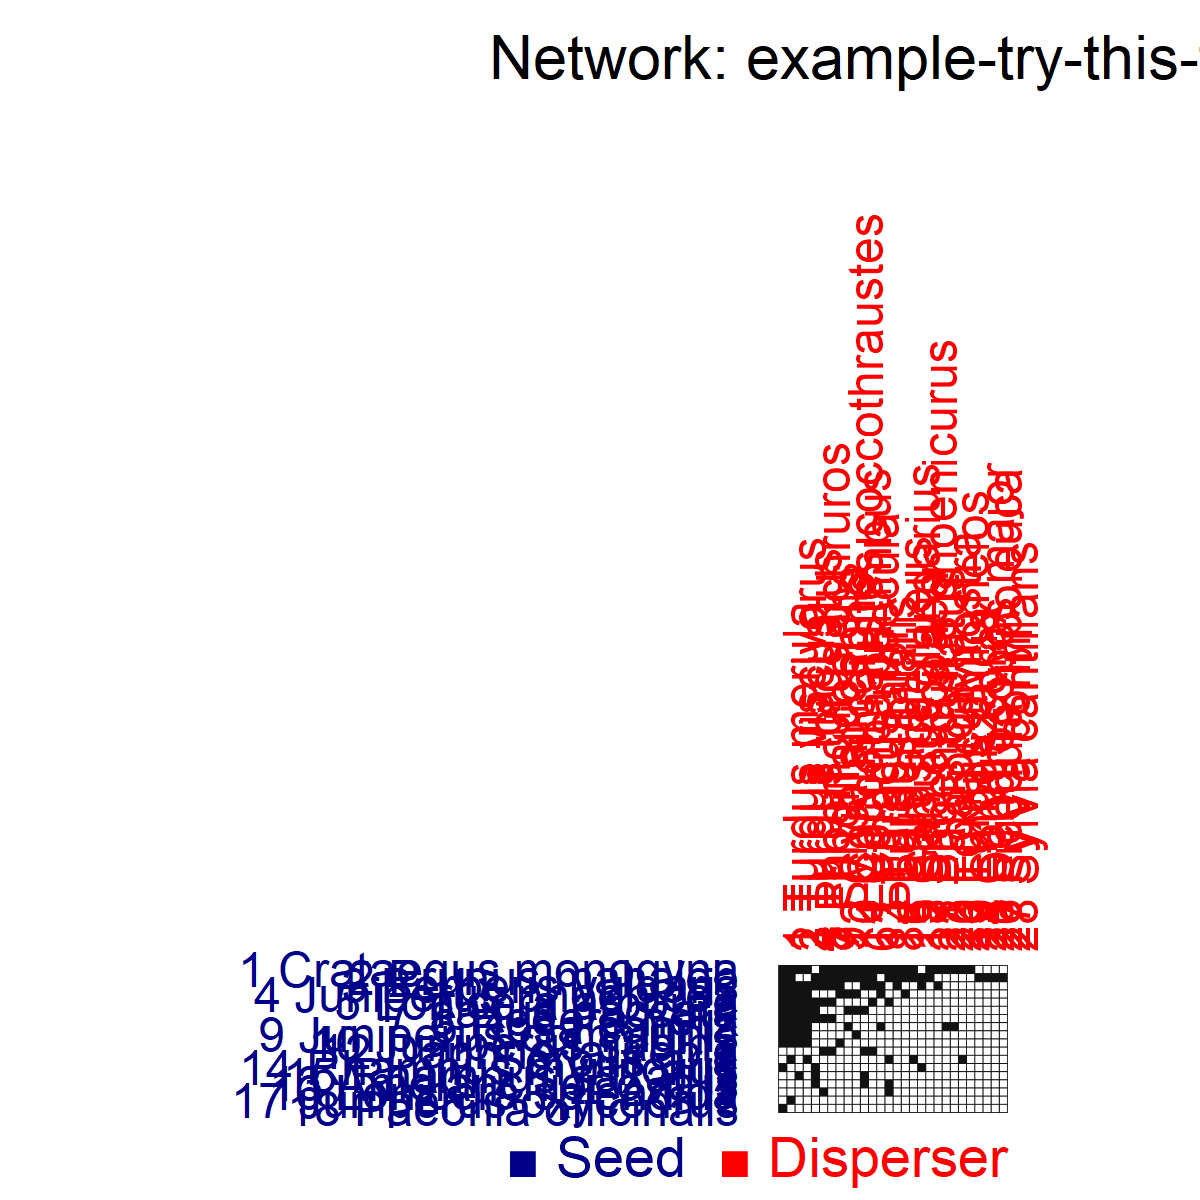
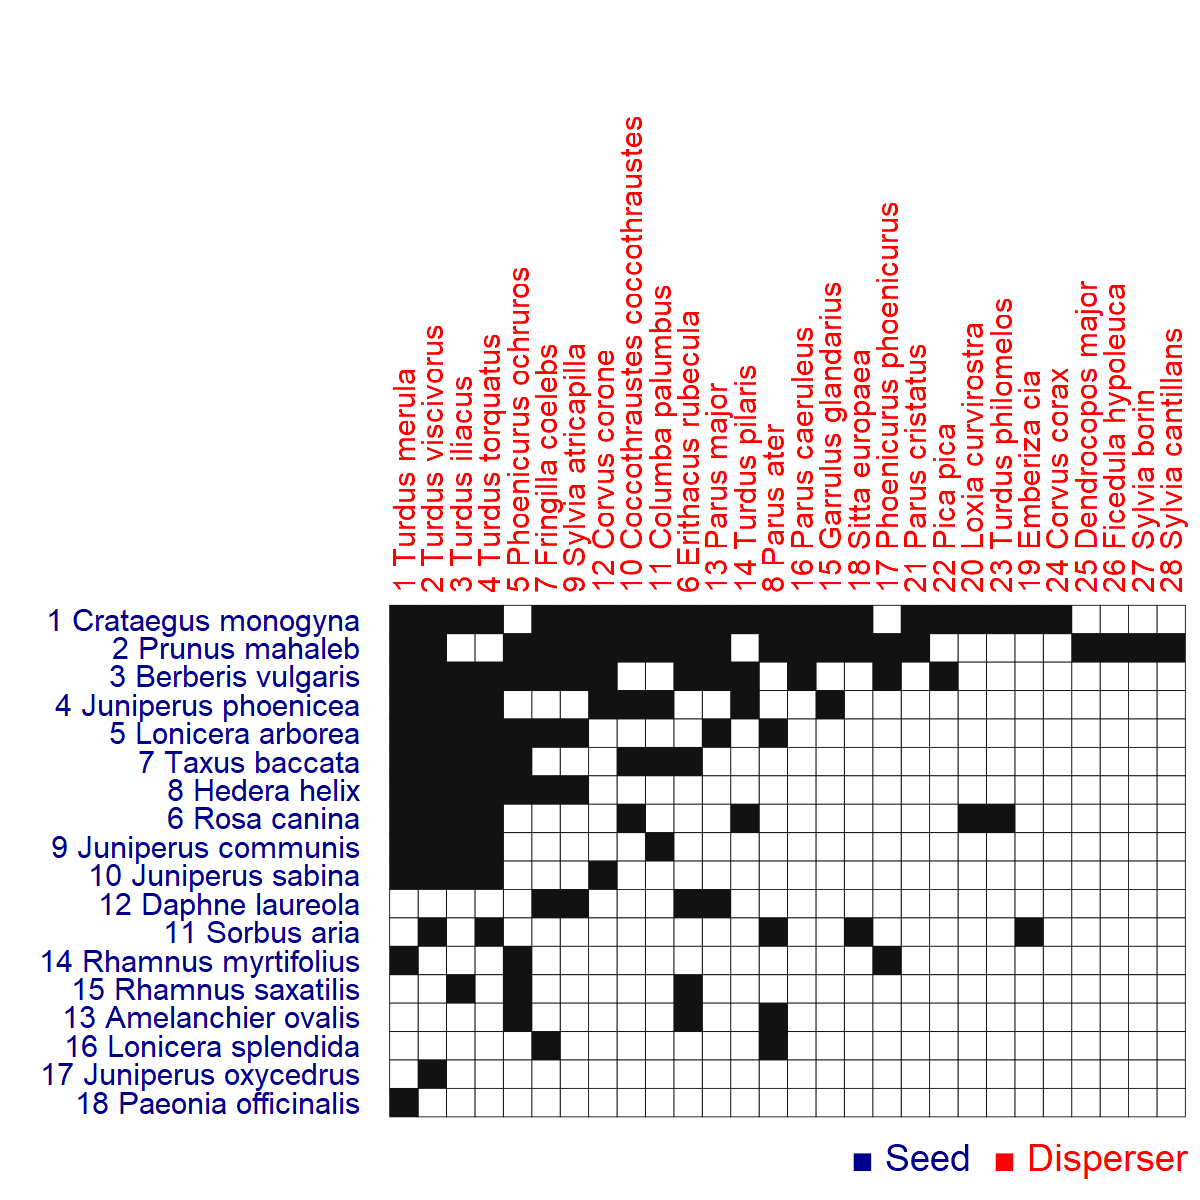
Matrix plot labels size

Changed region(s): [[0.0308, 0.0925, 1.0, 0.9867], [0.6167, 0.0308, 1.0, 0.0925], [0.4008, 0.0308, 0.5858, 0.0617]]

diff --git a/www/reports/matrix_M_SD_034_report.html b/www/reports/matrix_M_SD_034_report.html
@@ -1,0 +1,1 @@
+<!-- Online HTML, CSS and JavaScript editor to run code online.--><!DOCTYPE html><html lang="en"><head>    <meta charset="UTF-8" />    <meta name="viewport" content="width=device-width, initial-scale=1.0" />        <title>M_SD_034 matrix Network report</title>    <link rel="stylesheet" href="../css/reportstyle.css?refreshcss=1" type="text/css" >    <!-- <script type = 'text/javascript' src = '../scripts/reports.js'></script> --></head><body><div style='max-width: 800px; margin-left:20px' >       <div>       <img src="../images/rect-BipartGraph.png" height = "20px",style =        "position: relative; margin:-15px 0px; display:left-align;">       <div align="right" class='no-print'><a href="Javascript:window.print();"><img src="../images/logos-flexline/printer.png" width="15px"></a></div>          </div>   <div valign="top">      <h4 style="text-align:center">     Network:&nbsp; M_SD_034    </h4>    </div>    <div align="center" id="svgPlot"><img src="M_SD_034_MATRIX.png" width=810 ></div>    <span class='GuildTitle' style='color:#00008B'>Disperser</span >    <br>    <div class="GuildNamesList"><span style='color:#00008B'>1 Alethe poliocephala, 2 Andropadus ansorgei, 3 Andropadus curvirostris, 4 Andropadus gracilirostris, 5 Andropadus latirostris, 6 Andropadus masukuensis, 7 Andropadus virens, 8 Anthoscopus caroli, 9 Apalis rufogularis, 10 Baeopogon indicator, 11 Bathmocercus rufus, 12 Bleda syndactylus, 13 Buccanodon duchaillui, 14 Campephaga flava, 15 Centropus monachus, 16 Ceratogymna subcylindrica, 17 Cercopithecus ascanius, 18 Cercopithecus mitis, 19 Chalcomitra amethystina, 20 Chalcomitra senegalensis, 21 Chlorocichla flavicollis, 22 Chlorocichla laetissima, 23 Cinnyricinclus leucogaster, 24 Colius striatus, 25 Colobus guereza, 26 Columba larvata, 27 Cossypha heuglini, 28 Cossypha niveicapilla, 29 Cossypha polioptera, 30 Cuculus clamosus, 31 Cyanomitra olivacea, 32 Cyanomitra verticalis, 33 Dicrurus adsimilis, 34 Elminia longicauda, 35 Eremomela turneri, 36 Estrilda nonnula, 37 Gymnobucco bonapartei, 38 Heliosciurus rufobrachium, 39 Hippolais pallida, 40 Hylia prasina, 41 Laniarius luehderi, 42 Lybius bidentatus, 43 Malimbus rubricollis, 44 Melaniparus albiventris, 45 Melaniparus funereus, 46 Musophaga rossae, 47 Nigrita canicapillus, 48 Nigrita fusconotus, 49 Oriolus auratus, 50 Oriolus brachyrhynchus, 51 Papio anubis, 52 Phoenicurus phoenicurus, 53 Phyllastrephus cabanisi, 54 Phyllastrephus hypochloris, 55 Phylloscopus budongoensis, 56 Phylloscopus sibilatrix, 57 Phylloscopus trochilus, 58 Platysteira castanea, 59 Platysteira cyanea, 60 Ploceus baglafecht, 61 Ploceus bicolor, 62 Ploceus insignis, 63 Ploceus melanocephalus, 64 Ploceus nigerrimus, 65 Ploceus nigricollis, 66 Ploceus ocularis, 67 Pogoniulus bilineatus, 68 Prinia bairdii, 69 Prodotiscus insignis, 70 Pycnonotus barbatus, 71 Schistolais leucopogon, 72 Serinus citrinelloides, 73 Serinus dorsostriatus, 74 Serinus mozambicus, 75 Spermophaga ruficapilla, 76 Sylvia atricapilla, 77 Sylvia borin, 78 Sylvia communis, 79 Terpsiphone viridis, 80 Tockus alboterminatus, 81 Trachyphonus purpuratus, 82 Treron calvus, 83 Tricholaema hirsuta, 84 Turdoides sharpei, 85 Turdus olivaceus, 86 Turdus pelios, 87 Turtur tympanistria, 88Zosterops senegalensis</span></div>    <br>        <span class='GuildTitle' style='color:#FF0000'>Seed</span >    <br>    <div class="GuildNamesList"><span style='color:#FF0000'>1 Allophylus abyssinicus, 2 Antiaris toxicaria, 3 Blighia unijugata, 4 Bridelia micrantha, 5 Carissa edulis, 6 Casearia battiscombei, 7 Cissus oliveri, 8 Clerodendrum capitatum, 9 Coffea eugenioides, 10 Culcasia falcifolia, 11 Cyphostemma cyphopetalum, 12 Dracaena fragrans, 13 Ficus exasperata, 14 Ficus sur, 15 Harungana madagascariensis, 16 Jasminum fluminense, 17 Lantana camara, 18 Maesa lanceolata, 19 Manilkara butugi, 20 Morus mesozygia, 21 Peponium vogelii, 22 Piper guineense, 23 Pittosporum viridiflorum, 24 Polyscias fulva, 25 Prunus africana, 26 Psychotria peduncularis, 27 Rhamnus prinoides, 28 Rubus niveus, 29 Solanum mauritianum, 30 Toddalia asiatica, 31 Trilepisium madagascariense, 32 Unidentified sp1 M_SD_034, 33Unidentified sp2 M_SD_034</span></div>    <br><br>    <div class="Citation"><br>Matthias Schleuning, Nico Bluethgen, Martina Flarchinger, Julius Braun, H. Martin Schaefer, Katrin Bahning-Gaese, (2011). Specialization and interaction strength in a tropical plant-frugivore network differ among forest strata. Ecology, 92(1): 26-36. &nbsp; Kakamega Forest, Kenya</div></div></body></html>

diff --git a/www/reports/bipartite_RA_HP_042_report.html b/www/reports/bipartite_RA_HP_042_report.html
@@ -1,0 +1,1 @@
+<!-- Online HTML, CSS and JavaScript editor to run code online.--><!DOCTYPE html><html lang="en"><head>    <meta charset="UTF-8" />    <meta name="viewport" content="width=device-width, initial-scale=1.0" />        <title>RA_HP_042 bipartite Network report</title>    <link rel="stylesheet" href="../css/reportstyle.css?refreshcss=1" type="text/css" >    <!-- <script type = 'text/javascript' src = '../scripts/reports.js'></script> --></head><body><div style='max-width: 800px; margin-left:20px' >       <div>       <img src="../images/rect-BipartGraph.png" height = "20px",style =        "position: relative; margin:-15px 0px; display:left-align;">       <div align="right" class='no-print'><a href="Javascript:window.print();"><img src="../images/logos-flexline/printer.png" width="15px"></a></div>          </div>   <div valign="top">      <h4 style="text-align:center">     Network:&nbsp; RA_HP_042    </h4>    </div>    <div align="center" id="svgPlot"><img src="RA_HP_042_BIPARTITE.png" width=800 ></div>    <span class='GuildTitle' style='color:#4169E1'>Host</span >    <br>    <div class="GuildNamesList"><span style='color:#4169E1'>1 Amalaraeus penicilliger, 2 Amphipsylla anceps, 3 Amphipsylla dumalis, 4 Amphipsylla primaris, 5 Amphipsylla rossica, 6 Amphipsylla schelkovnikovi, 7 Callopsylla caspia, 8 Ceratophyllus sciurorum, 9 Citellophilus ullus, 10 Ctenophthalmus arvalis, 11 Ctenophthalmus assimilis, 12 Ctenophthalmus dilatatus, 13 Frontopsylla elata, 14 Frontopsylla elatoides, 15 Frontopsylla ornata, 16 Hystrichopsylla talpae, 17 Leptopsylla nana, 18 Leptopsylla sicistae, 19 Megabothris rectangulatus, 20 Mesopsylla eucta, 21 Mesopsylla hebes, 22 Mesopsylla lenis, 23 Neopsylla democratica, 24 Neopsylla mana, 25 Neopsylla setosa, 26 Nosopsyllus consimilis, 27 Oropsylla ilovaiskii, 28 Oropsylla silantiewi, 29 Paraneopsylla ioffi, 30 Pectinoctenus lauta, 31 Pectinoctenus nemorosa, 32Rhadinopsylla ioffi</span></div>    <br>        <span class='GuildTitle' style='color:#F08080'>Parasite</span >    <br>    <div class="GuildNamesList"><span style='color:#F08080'>1 Allactaga elater, 2 Allactaga major, 3 Allocricetulus eversmanni, 4 Alticola argentatus, 5 Alticola strelzowi, 6 Apodemus agrarius, 7 Apodemus uralensis, 8 Arvicola terrestris, 9 Clethrionomys rufocanus, 10 Cricetulus migratorius, 11 Cricetus cricetus, 12 Dryomys nitedula, 13 Ellobius talpinus, 14 Marmota baibacina, 15 Microtus arvalis, 16 Microtus gregalis, 17 Microtus oeconomus, 18 Myospalax myospalax, 19 Sicista subtilis, 20 Sicista tianshanica, 21Spermophilus erythrogenys</span></div>    <br><br>    <div class="Citation"><br>Hadfield JD, Krasnov BR, Poulin R, Shinichi N (2013) A tale of two phylogenies: comparative analyses of ecological interactions. The American Naturalist 183(2): 174-187 &nbsp; Tarbagatai</div></div></body></html>

diff --git a/www/reports/matrix_RA_HP_042_report.html b/www/reports/matrix_RA_HP_042_report.html
@@ -1,0 +1,1 @@
+<!-- Online HTML, CSS and JavaScript editor to run code online.--><!DOCTYPE html><html lang="en"><head>    <meta charset="UTF-8" />    <meta name="viewport" content="width=device-width, initial-scale=1.0" />        <title>RA_HP_042 matrix Network report</title>    <link rel="stylesheet" href="../css/reportstyle.css?refreshcss=1" type="text/css" >    <!-- <script type = 'text/javascript' src = '../scripts/reports.js'></script> --></head><body><div style='max-width: 800px; margin-left:20px' >       <div>       <img src="../images/rect-BipartGraph.png" height = "20px",style =        "position: relative; margin:-15px 0px; display:left-align;">       <div align="right" class='no-print'><a href="Javascript:window.print();"><img src="../images/logos-flexline/printer.png" width="15px"></a></div>          </div>   <div valign="top">      <h4 style="text-align:center">     Network:&nbsp; RA_HP_042    </h4>    </div>    <div align="center" id="svgPlot"><img src="RA_HP_042_MATRIX.png" width=540 ></div>    <span class='GuildTitle' style='color:#00008B'>Host</span >    <br>    <div class="GuildNamesList"><span style='color:#00008B'>1 Amalaraeus penicilliger, 2 Amphipsylla anceps, 3 Amphipsylla dumalis, 4 Amphipsylla primaris, 5 Amphipsylla rossica, 6 Amphipsylla schelkovnikovi, 7 Callopsylla caspia, 8 Ceratophyllus sciurorum, 9 Citellophilus ullus, 10 Ctenophthalmus arvalis, 11 Ctenophthalmus assimilis, 12 Ctenophthalmus dilatatus, 13 Frontopsylla elata, 14 Frontopsylla elatoides, 15 Frontopsylla ornata, 16 Hystrichopsylla talpae, 17 Leptopsylla nana, 18 Leptopsylla sicistae, 19 Megabothris rectangulatus, 20 Mesopsylla eucta, 21 Mesopsylla hebes, 22 Mesopsylla lenis, 23 Neopsylla democratica, 24 Neopsylla mana, 25 Neopsylla setosa, 26 Nosopsyllus consimilis, 27 Oropsylla ilovaiskii, 28 Oropsylla silantiewi, 29 Paraneopsylla ioffi, 30 Pectinoctenus lauta, 31 Pectinoctenus nemorosa, 32Rhadinopsylla ioffi</span></div>    <br>        <span class='GuildTitle' style='color:#FF0000'>Parasite</span >    <br>    <div class="GuildNamesList"><span style='color:#FF0000'>1 Allactaga elater, 2 Allactaga major, 3 Allocricetulus eversmanni, 4 Alticola argentatus, 5 Alticola strelzowi, 6 Apodemus agrarius, 7 Apodemus uralensis, 8 Arvicola terrestris, 9 Clethrionomys rufocanus, 10 Cricetulus migratorius, 11 Cricetus cricetus, 12 Dryomys nitedula, 13 Ellobius talpinus, 14 Marmota baibacina, 15 Microtus arvalis, 16 Microtus gregalis, 17 Microtus oeconomus, 18 Myospalax myospalax, 19 Sicista subtilis, 20 Sicista tianshanica, 21Spermophilus erythrogenys</span></div>    <br><br>    <div class="Citation"><br>Hadfield JD, Krasnov BR, Poulin R, Shinichi N (2013) A tale of two phylogenies: comparative analyses of ecological interactions. The American Naturalist 183(2): 174-187 &nbsp; Tarbagatai</div></div></body></html>

diff --git a/www/reports/bipartite_dattilo2014_report.html b/www/reports/bipartite_dattilo2014_report.html
@@ -1,0 +1,1 @@
+<!-- Online HTML, CSS and JavaScript editor to run code online.--><!DOCTYPE html><html lang="en"><head>    <meta charset="UTF-8" />    <meta name="viewport" content="width=device-width, initial-scale=1.0" />        <title>dattilo2014 bipartite Network report</title>    <link rel="stylesheet" href="../css/reportstyle.css?refreshcss=1" type="text/css" >    <!-- <script type = 'text/javascript' src = '../scripts/reports.js'></script> --></head><body><div style='max-width: 800px; margin-left:20px' >       <div>       <img src="../images/rect-BipartGraph.png" height = "20px",style =        "position: relative; margin:-15px 0px; display:left-align;">       <div align="right" class='no-print'><a href="Javascript:window.print();"><img src="../images/logos-flexline/printer.png" width="15px"></a></div>          </div>   <div valign="top">      <h4 style="text-align:center">     Network:&nbsp; dattilo2014    </h4>    </div>    <div align="center" id="svgPlot"><img src="dattilo2014_BIPARTITE.png" width=800 ></div>    <span class='GuildTitle' style='color:#4169E1'>Ant</span >    <br>    <div class="GuildNamesList"><span style='color:#4169E1'>1 Forelius pruinosus, 2 Camponotus planatus, 3 Monomorium ebeninum, 4 Cephalotes minutus, 5 Dorymyrmex bicolor, 6 Paratrechina longicornis, 7 Crematogaster obscurata, 8 Pseudomyrmex oculatus, 9 Camponotus mucronatus, 10 Camponotus novogradensis, 11 Crematogaster crinosa, 12 Crematogaster rochai, 13 Crematogaster torosa, 14 Monomorium floricola, 15 Pseudomyrmex gracilis, 16 Pseudomyrmex pallidus, 17Solepnosis geminata</span></div>    <br>        <span class='GuildTitle' style='color:#F08080'>Plant</span >    <br>    <div class="GuildNamesList"><span style='color:#F08080'>1 Opuntia sctricta, 2 Macroptilium atropupureum, 3 Mansoa hymenaea, 4 Crotolaria incana, 5 Cedrela odorata, 6 Chamaecrista chamecristoides, 7 Caesalpinia crista, 8 Canavalia rosea, 9 Petrea volubilis, 10 Prestonia mexicana, 11 Turnera ulmifolia, 12 Capparis baduca, 13 Ipomoea pres-caprae, 14 Passiflora sp, 15 Serjania sp, 16Terminalia catappa</span></div>    <br><br>    <div class="Citation"><br> </div></div></body></html>

diff --git a/www/reports/matrix_dattilo2014_report.html b/www/reports/matrix_dattilo2014_report.html
@@ -1,0 +1,1 @@
+<!-- Online HTML, CSS and JavaScript editor to run code online.--><!DOCTYPE html><html lang="en"><head>    <meta charset="UTF-8" />    <meta name="viewport" content="width=device-width, initial-scale=1.0" />        <title>dattilo2014 matrix Network report</title>    <link rel="stylesheet" href="../css/reportstyle.css?refreshcss=1" type="text/css" >    <!-- <script type = 'text/javascript' src = '../scripts/reports.js'></script> --></head><body><div style='max-width: 800px; margin-left:20px' >       <div>       <img src="../images/rect-BipartGraph.png" height = "20px",style =        "position: relative; margin:-15px 0px; display:left-align;">       <div align="right" class='no-print'><a href="Javascript:window.print();"><img src="../images/logos-flexline/printer.png" width="15px"></a></div>          </div>   <div valign="top">      <h4 style="text-align:center">     Network:&nbsp; dattilo2014    </h4>    </div>    <div align="center" id="svgPlot"><img src="dattilo2014_MATRIX.png" width=540 ></div>    <span class='GuildTitle' style='color:#00008B'>Ant</span >    <br>    <div class="GuildNamesList"><span style='color:#00008B'>1 Forelius pruinosus, 2 Camponotus planatus, 3 Monomorium ebeninum, 4 Cephalotes minutus, 5 Dorymyrmex bicolor, 6 Paratrechina longicornis, 7 Crematogaster obscurata, 8 Pseudomyrmex oculatus, 9 Camponotus mucronatus, 10 Camponotus novogradensis, 11 Crematogaster crinosa, 12 Crematogaster rochai, 13 Crematogaster torosa, 14 Monomorium floricola, 15 Pseudomyrmex gracilis, 16 Pseudomyrmex pallidus, 17Solepnosis geminata</span></div>    <br>        <span class='GuildTitle' style='color:#FF0000'>Plant</span >    <br>    <div class="GuildNamesList"><span style='color:#FF0000'>1 Opuntia sctricta, 2 Macroptilium atropupureum, 3 Mansoa hymenaea, 4 Crotolaria incana, 5 Cedrela odorata, 6 Chamaecrista chamecristoides, 7 Caesalpinia crista, 8 Canavalia rosea, 9 Petrea volubilis, 10 Prestonia mexicana, 11 Turnera ulmifolia, 12 Capparis baduca, 13 Ipomoea pres-caprae, 14 Passiflora sp, 15 Serjania sp, 16Terminalia catappa</span></div>    <br><br>    <div class="Citation"><br> </div></div></body></html>

diff --git a/www/reports/matrix_Safariland_report.html b/www/reports/matrix_Safariland_report.html
@@ -1,0 +1,1 @@
+<!-- Online HTML, CSS and JavaScript editor to run code online.--><!DOCTYPE html><html lang="en"><head>    <meta charset="UTF-8" />    <meta name="viewport" content="width=device-width, initial-scale=1.0" />        <title>Safariland matrix Network report</title>    <link rel="stylesheet" href="../css/reportstyle.css?refreshcss=1" type="text/css" >    <!-- <script type = 'text/javascript' src = '../scripts/reports.js'></script> --></head><body><div style='max-width: 800px; margin-left:20px' >       <div>       <img src="../images/rect-BipartGraph.png" height = "20px",style =        "position: relative; margin:-15px 0px; display:left-align;">       <div align="right" class='no-print'><a href="Javascript:window.print();"><img src="../images/logos-flexline/printer.png" width="15px"></a></div>          </div>   <div valign="top">      <h4 style="text-align:center">     Network:&nbsp; Safariland    </h4>    </div>    <div align="center" id="svgPlot"><img src="Safariland_MATRIX.png" width=540 ></div>    <span class='GuildTitle' style='color:#00008B'>Pollinator</span >    <br>    <div class="GuildNamesList"><span style='color:#00008B'>1 Policana albopilosa, 2 Bombus dahlbomii, 3 Ruizantheda mutabilis, 4 Trichophthalma amoena, 5 Syrphus octomaculatus, 6 Manuelia gayi, 7 Allograpta Toxomerus, 8 Trichophthalma jaffueli, 9 Phthiria, 10 Platycheirus1, 11 Sapromyza Minettia, 12 Formicidae3, 13 Nitidulidae, 14 Staphilinidae, 15 Ichneumonidae4, 16 Braconidae3, 17 Chalepogenus caeruleus, 18 Vespula germanica, 19 Torymidae2, 20 Phthiria1, 21 Svastrides melanura, 22 Sphecidae, 23 Thomisidae, 24 Corynura prothysteres, 25 Ichneumonidae2, 26 Ruizantheda proxima, 27Braconidae2</span></div>    <br>        <span class='GuildTitle' style='color:#FF0000'>Plant</span >    <br>    <div class="GuildNamesList"><span style='color:#FF0000'>1 Aristotelia chilensis, 2 Alstroemeria aurea, 3 Schinus patagonicus, 4 Berberis darwinii, 5 Rosa eglanteria, 6 Cynanchum diemii, 7 Ribes magellanicum, 8 Mutisia decurrens, 9Calceolaria crenatiflora</span></div>    <br><br>    <div class="Citation"><br> </div></div></body></html>

diff --git a/www/reports/matrix_RA_HP_034_report.html b/www/reports/matrix_RA_HP_034_report.html
@@ -1,0 +1,1 @@
+<!-- Online HTML, CSS and JavaScript editor to run code online.--><!DOCTYPE html><html lang="en"><head>    <meta charset="UTF-8" />    <meta name="viewport" content="width=device-width, initial-scale=1.0" />        <title>RA_HP_034 matrix Network report</title>    <link rel="stylesheet" href="../css/reportstyle.css?refreshcss=1" type="text/css" >    <!-- <script type = 'text/javascript' src = '../scripts/reports.js'></script> --></head><body><div style='max-width: 800px; margin-left:20px' >       <div>       <img src="../images/rect-BipartGraph.png" height = "20px",style =        "position: relative; margin:-15px 0px; display:left-align;">       <div align="right" class='no-print'><a href="Javascript:window.print();"><img src="../images/logos-flexline/printer.png" width="15px"></a></div>          </div>   <div valign="top">      <h4 style="text-align:center">     Network:&nbsp; RA_HP_034    </h4>    </div>    <div align="center" id="svgPlot"><img src="RA_HP_034_MATRIX.png" width=540 ></div>    <span class='GuildTitle' style='color:#00008B'>Host</span >    <br>    <div class="GuildNamesList"><span style='color:#00008B'>1 Amalaraeus penicilliger, 2 Amphipsylla sibirica, 3 Corrodopsylla birulai, 4 Ctenophthalmus uncinatus, 5 Megabothris rectangulatus, 6 Palaeopsylla soricis, 7 Peromyscopsylla silvatica, 8Rhadinopsylla integella</span></div>    <br>        <span class='GuildTitle' style='color:#FF0000'>Parasite</span >    <br>    <div class="GuildNamesList"><span style='color:#FF0000'>1 Arvicola terrestris, 2 Clethrionomys glareolus, 3 Clethrionomys rufocanus, 4 Clethrionomys rutilus, 5 Microtus agrestis, 6 Microtus oeconomus, 7 Myopus schisticolor, 8 Neomys fodiens, 9Sicista betulina</span></div>    <br><br>    <div class="Citation"><br>Hadfield JD, Krasnov BR, Poulin R, Shinichi N (2013) A tale of two phylogenies: comparative analyses of ecological interactions. The American Naturalist 183(2): 174-187 &nbsp; Pre-Polar Urals</div></div></body></html>
